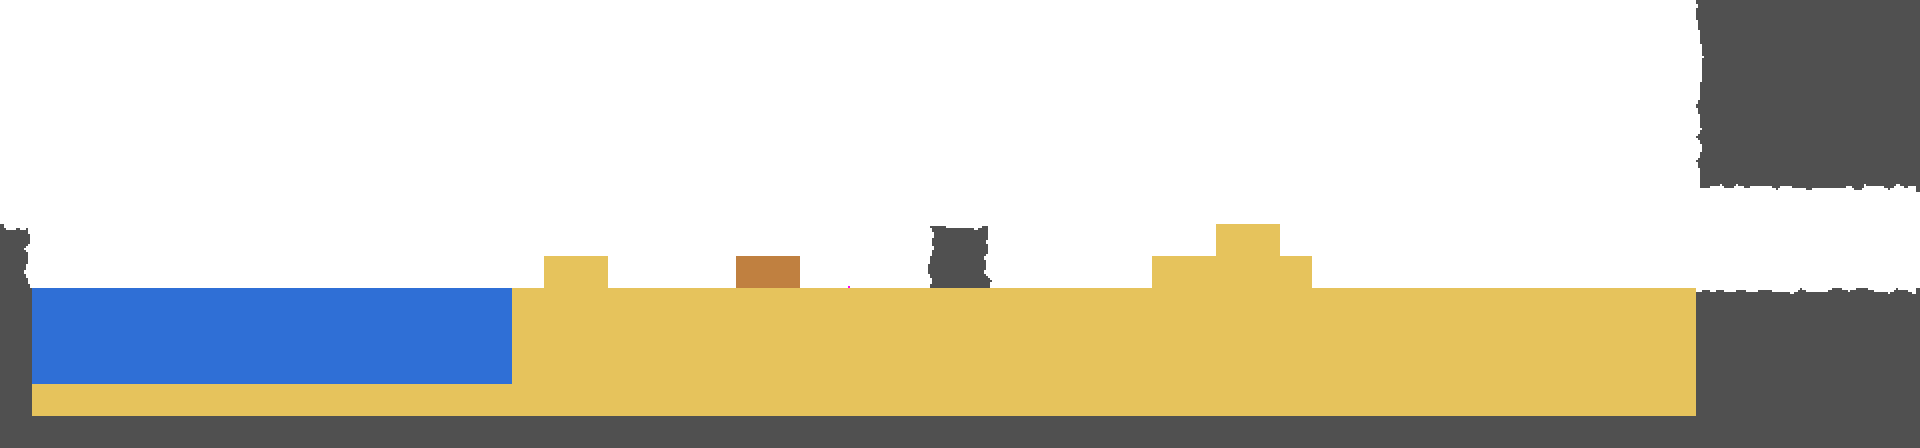
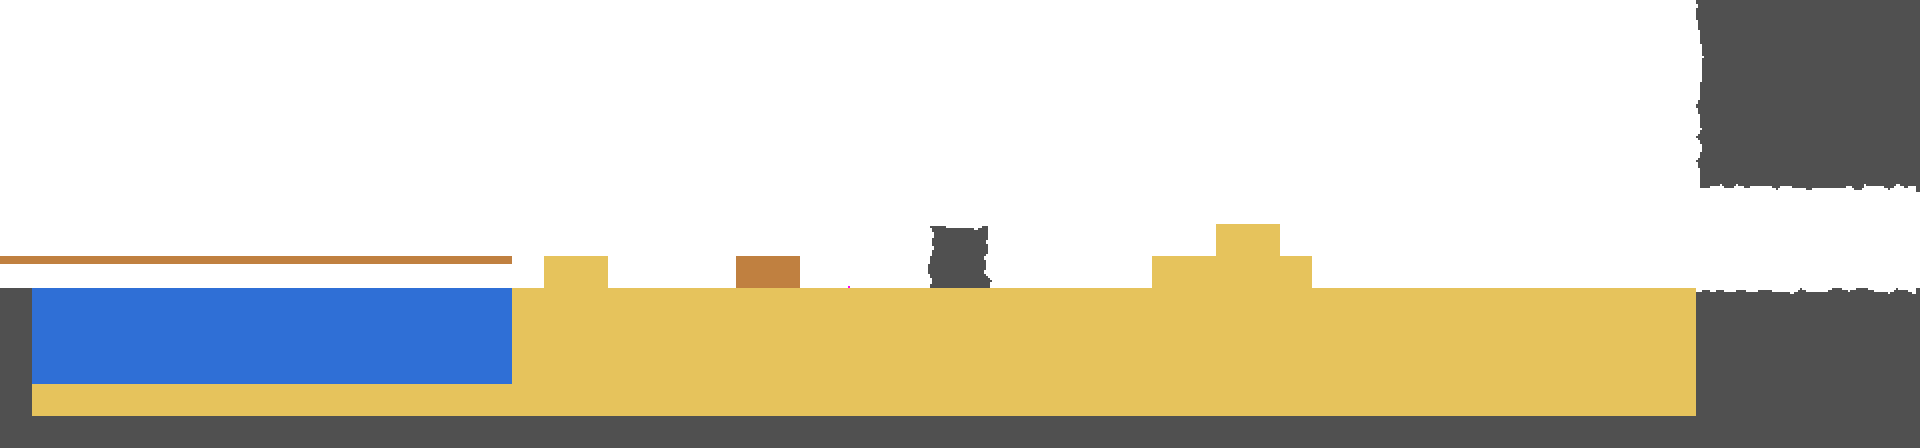
Torre 2D: sala de pruebas de materiales
- Sala nueva a la izquierda de la playa (se llega por un muelle): 4 piletas (agua, aceite, arena y grava, lava) con un dique de tierra que se rompe con el tajo y cae por un hueco angosto a lo que la recibe.
- Carteles que explican cada material al pasar.
- Bloque nuevo 'h' (hueco angosto: pasa el fluido, no el héroe) en las filas y en el generador de imágenes.
- Prueba: el tajo rompe el dique y el agua cae.

Changed region(s): [[0.0, 0.5, 0.2812, 0.6562]]

diff --git a/js/tower2d.js b/js/tower2d.js
@@ -53,10 +53,11 @@ try { const saved = JSON.parse(localStorage.getItem('t2d-feel') || '{}'); T2D_TU
 // --- LAS SALAS. Cada una es una imagen en torre2d/salas/<nombre>.png (cada color, un material: docs/TORRE2D-SALAS.md).
 //     Si la imagen no carga (o en las pruebas), se arma desde estas filas de bloques de 16 px:
 //     # roca · p piedra · t tierra · s arena · g grava · ~ agua · o aceite · = tabla de madera · w madera · L lava · ^ espinas
+//     h hueco angosto (6 px de aire a la izquierda: pasa el fluido, no el héroe)
 //     P entrada · E caminante · C embestidor (avisa y embiste) · F la Pluma de Arén (doble salto) · T antorcha
 //     Los bordes abiertos llevan a la sala que dice `exits`.
 const T2D_ROOMS = {
-    playa: { name: 'La playa', bg: 'beach', camUp: 45, waves: true, exits: { right: 'base' }, rows: [
+    playa: { name: 'La playa', bg: 'beach', camUp: 45, waves: true, exits: { left: 'pruebas', right: 'base' }, rows: [
         '.....................................................#######',
         '.....................................................#######',
         '.....................................................#######',
@@ -64,13 +65,28 @@ const T2D_ROOMS = {
         '.....................................................#######',
         '.....................................................#######',
         '............................................................',
-        '#............................##.......ss....................',
-        '#................ss....ww.P..##.....sssss...................',
+        '.............................##.......ss....................',
+        '================.ss....ww.P..##.....sssss...................',
         '#~~~~~~~~~~~~~~~sssssssssssssssssssssssssssssssssssss#######',
         '#~~~~~~~~~~~~~~~sssssssssssssssssssssssssssssssssssss#######',
         '#~~~~~~~~~~~~~~~sssssssssssssssssssssssssssssssssssss#######',
         '#ssssssssssssssssssssssssssssssssssssssssssssssssssss#######',
         '############################################################'] },
+    pruebas: { name: 'La sala de pruebas', dark: 0.5, exits: { right: 'playa' }, rows: [
+        '########################################',
+        '#.......................................',
+        '#.......................................',
+        '#.......................................',
+        '#.......................................',
+        '#.......................................',
+        '#.......................................',
+        '#.......................................',
+        '#########LLLt..#gggt..#ooot..#~~~t......',
+        '#########LLLt.T#ssst.T#ooot.T#~~~t.T.P..',
+        '#############h######h######h######h#####',
+        '#..w...........#......#......#.........#',
+        '#..www.oooo#~~~#......#~~~~~~#.....#...#',
+        '########################################'] },
     base: { name: 'La puerta de la Torre', dark: 0.74, exits: { left: 'playa', right: 'salon' }, rows: [
         '########################################',
         '#......................................#',
@@ -116,6 +132,17 @@ const T2D_ROOMS = {
         '#....#ooooo#...............E...........#',
         '#....#~~~~~#........T..............T...#',
         '###############################...######'] }
+};
+// Carteles de cada sala: [columna, fila, texto] (al pasar cerca se lee el texto)
+const T2D_SIGNS = {
+    playa: [[2, 7, '← La sala de pruebas: los materiales de la Torre, uno por uno.']],
+    pruebas: [
+        [37, 9, 'Sala de pruebas. Cada pileta tiene un dique de tierra: rompelo con el tajo y mirá qué pasa abajo.'],
+        [36, 9, 'AGUA: corre, llena los huecos y se nivela. Adentro te frena y podés nadar (saltá para bracear). Apaga el fuego.'],
+        [28, 9, 'ACEITE: corre más lento y es más liviano: flota sobre el agua. Se prende fuego enseguida.'],
+        [21, 9, 'ARENA y GRAVA: caen y se amontonan (la grava, más pesada). El tajo las cava; el agua las atraviesa.'],
+        [14, 9, 'LAVA: corre lenta y quema. Con el agua se hace piedra y vapor; prende la madera y el aceite.']
+    ]
 };
 const T2D_WORLDS = {}; // el mundo de cada sala (lo que rompiste queda roto mientras dure la partida)
 
@@ -326,6 +353,7 @@ function t2dUpdate(input, dt) {
     h.wasWet = wet;
     if (h.onGround && Math.abs(h.vx) > 80 && g.clock - (h.stepDustAt || 0) > 0.14) { h.stepDustAt = g.clock; t2dDust(h.x + h.w / 2 - h.facing * 3, h.y + h.h, 1, 0.4); } // polvo al correr
     if (g.clock < (h.dashUntil || 0) && Math.floor(g.clock * 60) % 2 === 0) g.ghosts.push({ x: h.x, y: h.y, facing: h.facing, frame: t2dHeroFrame(h, g.clock), at: g.realClock });
+    (T2D_SIGNS[g.key] || []).forEach(sg => { if (Math.abs(h.x + h.w / 2 - (sg[0] * T + T / 2)) < 20 && g.signAt !== sg) { g.signAt = sg; t2dMsg(sg[2]); } }); // carteles
     // salir por un borde: la sala vecina
     const ex = g.room.exits;
     if (h.x + h.w < 0 && ex.left) return t2dEnterRoom(ex.left, 'right');
@@ -492,6 +520,7 @@ function t2dDraw(ctx, scale) {
         const fl = Math.sin(g.realClock * 13 + t.x) * 0.5 + Math.sin(g.realClock * 7.3 + t.y) * 0.5;
         ctx.fillStyle = '#ff7a1a'; ctx.fillRect(t.x - 2, t.y - 14 - (fl > 0.3 ? 1 : 0), 4, 4); ctx.fillStyle = '#ffd23f'; ctx.fillRect(t.x - 1, t.y - 13 - (fl > 0 ? 1 : 0), 2, 3);
     });
+    (T2D_SIGNS[g.key] || []).forEach(([c, r]) => { const x = c * T + T / 2, y = (r + 1) * T; ctx.fillStyle = '#5e3c22'; ctx.fillRect(x - 1, y - 12, 2, 12); ctx.fillStyle = '#b07440'; ctx.fillRect(x - 6, y - 17, 12, 7); ctx.fillStyle = '#3a2516'; ctx.fillRect(x - 4, y - 15, 8, 1); ctx.fillRect(x - 4, y - 13, 6, 1); }); // carteles
     g.feathers.forEach(f => { ctx.fillStyle = '#ffd166'; ctx.fillRect(f.x + 3, f.y + Math.sin(g.clock * 3) * 2, 4, 10); ctx.fillStyle = '#fff3c4'; ctx.fillRect(f.x + 4, f.y + 1 + Math.sin(g.clock * 3) * 2, 2, 6); });
     g.enemies.forEach(e => { if (e.hp > 0) t2dDrawEnemy(ctx, g, e, 1, 1); });
     (g.corpses || []).forEach(c => { const k = (g.realClock - c.at) / 0.4; if (k < 1) t2dDrawEnemy(ctx, g, c.e, 1 + k * 0.4, 1 - k * 0.9, 1 - k); }); // se aplasta y se apaga

diff --git a/js/tests.js b/js/tests.js
@@ -4795,6 +4795,13 @@ test('Torre 2D: correr, saltar (más alto si mantenés), plataformas, tajo, sala
     check(c.state === 'stun' && t2d.hero.hp === hp0, 'la parada justo a tiempo lo aturde y no te saca vida');
     // los modelos: cada criatura tiene su dibujo y su caja es el contorno del dibujo; el héroe recibe daño en una caja más chica
     ['walker', 'charger'].forEach(k => { const B = t2dBody(k), e = { kind: k, x: 0, y: 0, w: B.w, h: B.h, vx: 1, state: 'walk', hurtAt: -9 }; check(B.w > 4 && B.h > 4 && B.w < 40, k + ': su caja sale del dibujo'); t2dDrawEnemy(document.createElement('canvas').getContext('2d'), t2d, e, 1, 1); });
+    // la sala de pruebas (a la izquierda de la playa): romper el dique del agua la hace caer por el hueco angosto
+    check(T2D_ROOMS.playa.exits.left === 'pruebas' && T2D_ROOMS.pruebas.exits.right === 'playa', 'la playa lleva a la sala de pruebas');
+    t2d = null; t2dEnterRoom('pruebas'); run({}, 0.3);
+    const lw = t2d.world, wetBelow = () => { let n = 0; for (let i = 176 * lw.W; i < lw.mat.length; i++) if (lw.mat[i] === MAT.WATER) n++; return n; }, w0 = wetBelow();
+    Object.assign(t2d.hero, { x: 34 * 16 + 7, y: 138, vx: 0, vy: 0, facing: -1 }); run({}, 0.2); t2d.hero.facing = -1;
+    run({ attack: true }, 0.3); run({}, 3);
+    check(wetBelow() - w0 > 200, 'el tajo rompe el dique y el agua cae abajo');
     const hb = t2dHurtBox(t2d.hero); check(hb.w < t2d.hero.w && hb.h < t2d.hero.h && hb.x > t2d.hero.x, 'la caja de daño del héroe es más chica que la de choque');
     // cada estado tiene su cuadro dibujado (saltar, punta, caer, aterrizar, dash, golpe, pared, correr)
     const states = [{ onGround: false, vy: -200 }, { onGround: false, vy: 0 }, { onGround: false, vy: 200 }, { onGround: true, vx: 0, landAt: 5 },

diff --git a/js/tower2dWorld.js b/js/tower2dWorld.js
@@ -83,7 +83,7 @@ function w2dFromImage(img) {
     return w;
 }
 // Desde filas de texto (bloques de 16 px; para las pruebas y por si la imagen no carga):
-// # roca · p piedra · t tierra · s arena · g grava · ~ agua · o aceite · = madera (tabla de 4 px) · w madera · L lava · ^ espinas · P E C F marcas
+// # roca · p piedra · t tierra · s arena · g grava · ~ agua · o aceite · = madera (tabla de 4 px) · w madera · L lava · ^ espinas · h hueco angosto · P E C F marcas
 function w2dFromRows(rows, T = 16) {
     const w = w2dMake(rows[0].length * T, rows.length * T);
     const fill = { '#': MAT.ROCK, p: MAT.STONE, t: MAT.DIRT, s: MAT.SAND, '~': MAT.WATER, w: MAT.WOOD, L: MAT.LAVA, g: MAT.GRAVEL, o: MAT.OIL };
@@ -91,6 +91,7 @@ function w2dFromRows(rows, T = 16) {
         const x0 = tx * T, y0 = ty * T;
         if (fill[c] !== undefined) { for (let y = y0; y < y0 + T; y++) w.mat.fill(fill[c], y * w.W + x0, y * w.W + x0 + T); }
         else if (c === '=') { for (let y = y0; y < y0 + 4; y++) w.mat.fill(MAT.WOOD, y * w.W + x0, y * w.W + x0 + T); }
+        else if (c === 'h') { for (let y = y0; y < y0 + T; y++) w.mat.fill(MAT.ROCK, y * w.W + x0 + 6, y * w.W + x0 + T); } // hueco angosto
         else if (c === '^') { for (let k = 0; k < T; k++) { const hh = 7 - Math.abs((k % 4) - 2) * 3; for (let y = y0 + T - hh; y < y0 + T; y++) w.mat[y * w.W + x0 + k] = MAT.SPIKE; } } // dientes de 1-7 px
         else if (w.markers[c]) w.markers[c].push({ x: x0 + T / 2, y: y0 + T - 1 });
     }));

diff --git a/js/main.js b/js/main.js
@@ -1,7 +1,7 @@
 // Punto de entrada: conecta los botones y arranca el bucle principal.
 
 // Versión visible en el menú: si no coincide con la última subida, el navegador muestra una copia vieja (Ctrl+F5).
-const GAME_VERSION = '2026-10-26 · Torre 2D: enemigos dibujados y cajas de golpe a medida';
+const GAME_VERSION = '2026-10-26 · Torre 2D: sala de pruebas de materiales';
 document.getElementById('game-version').textContent = `Versión ${GAME_VERSION}`;
 // Se actualiza solo (2026-10-17, "no se actualizó"): GitHub Pages deja el juego en la caché del navegador hasta 10 min.
 // Si el main.js del servidor trae otra versión, se vuelven a bajar la página y sus archivos y se recarga (una vez por versión).

diff --git a/docs/arte/torre2d-salas.py b/docs/arte/torre2d-salas.py
@@ -39,6 +39,8 @@ for name, rows in rooms.items():
                 px[x, y] = COL[c] + (255,)
             elif c == '=':
                 if y % T < 4: px[x, y] = COL[c] + (255,)
+            elif c == 'h':  # hueco angosto: 6 px de aire a la izquierda, el resto roca
+                if x % T >= 6: px[x, y] = COL['#'] + (255,)
             elif c == '^':
                 k = x % T; hh = 7 - abs((k % 4) - 2) * 3
                 if y % T >= T - hh: px[x, y] = COL[c] + (255,)

diff --git a/docs/ESTADO.md b/docs/ESTADO.md
@@ -8,7 +8,8 @@ Documento de traspaso: dónde estamos, qué falta y cómo se trabaja. Las reglas
 
 ## Rumbo actual (2026-10-25, decidido por el usuario)
 - **Infinite Tower vuelve en 2D lateral**, metroidvania conectado, como modo nuevo en paralelo (`torre2d.html`,
-  `js/tower2d.js`; fase T2D del roadmap). Prototipo jugable hecho: 3 salas, saltos, plataformas, tajos, doble salto.
+  `js/tower2d.js`; fase T2D del roadmap). Prototipo jugable: playa + 3 salas + sala de pruebas de materiales (por el
+  muelle de la playa, a la izquierda), mundo de píxeles, enemigos dibujados con cajas de golpe a medida, luz, sonido y joystick.
 - **MATCH:** foco en la creación de personajes (los 8 competidores y después un creador para el jugador) y los menús.
 - **MATCH: el RTS en pausa** (duelos, controles estilo Dota, IA de rivales, banco de duelos).
 
